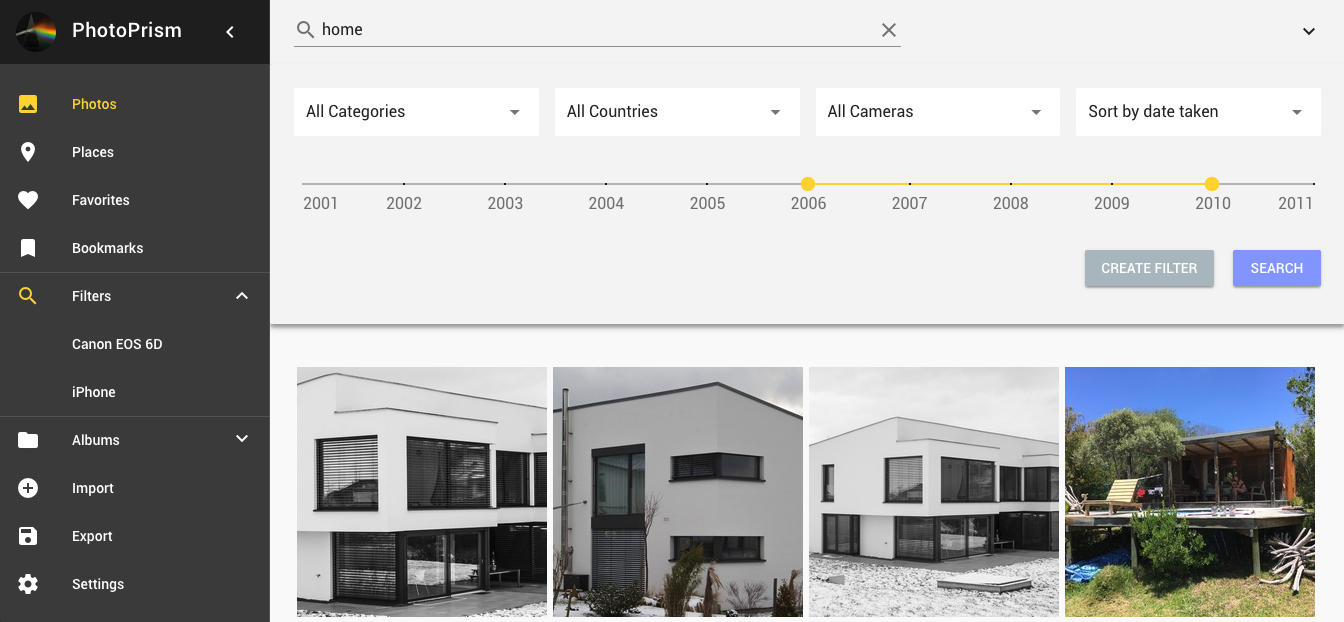
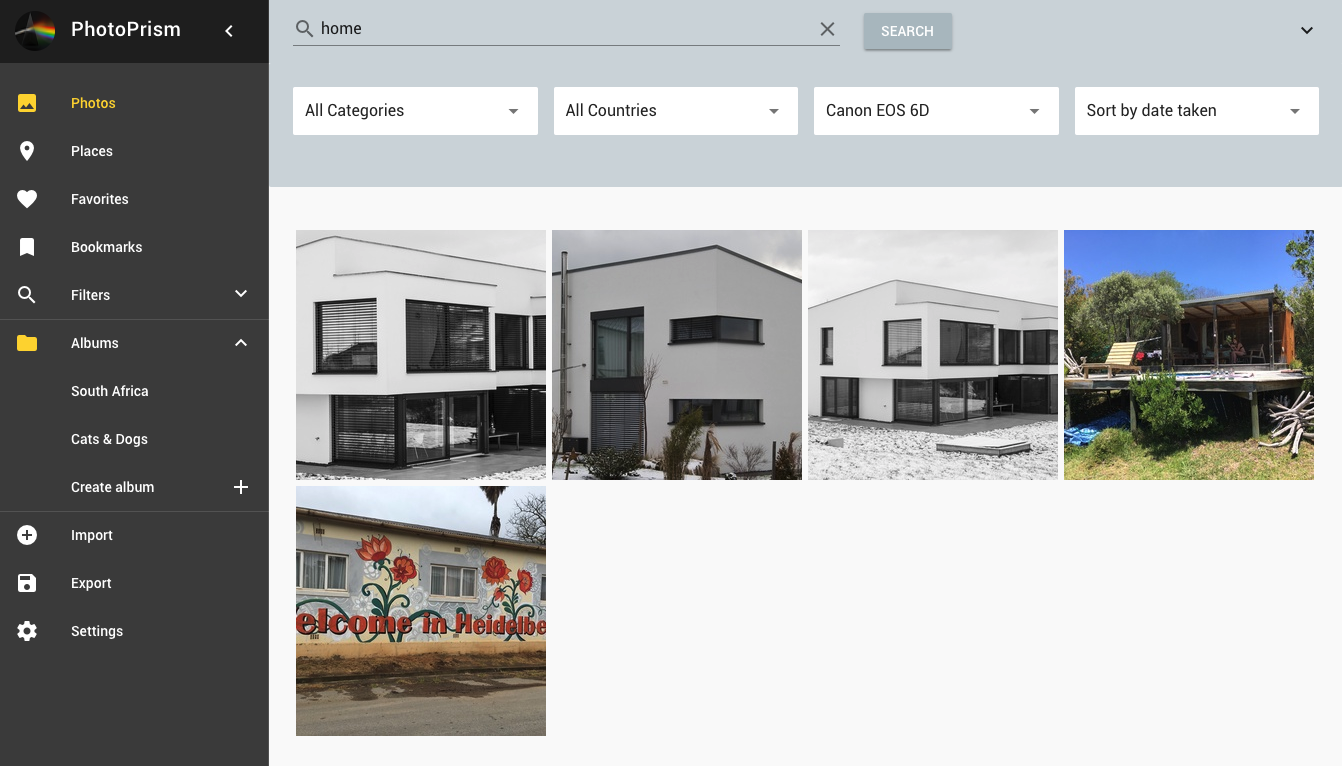
Improved search form design

diff --git a/frontend/src/app/pages/photos.vue b/frontend/src/app/pages/photos.vue
@@ -1,8 +1,8 @@
 <template>
     <div>
         <v-form ref="form" lazy-validation @submit="formChange" dense>
-            <v-toolbar>
-                <v-text-field class="pt-3"
+            <v-toolbar flat color="blue-grey lighten-4">
+                <v-text-field class="pt-3 pr-3"
                               single-line
                               label="Search"
                               prepend-inner-icon="search"
@@ -10,7 +10,7 @@
                               v-model="query.q"
                               @keyup.enter.native="formChange"
                 ></v-text-field>
-
+                <v-btn @click="formChange" color="secondary">Search</v-btn>
                 <v-spacer></v-spacer>
 
                 <v-btn icon @click="advandedSearch = !advandedSearch">
@@ -18,8 +18,9 @@
                 </v-btn>
             </v-toolbar>
             <v-slide-y-transition>
-                <v-card class="theme--light v-toolbar pt-0"
-                        style="box-shadow: 0 4px 4px -1px rgba(0,0,0,.2), 0 4px 5px 0 rgba(0,0,0,.14), 0 4px 10px 0 rgba(0,0,0,.12);"
+                <v-card class="pt-0"
+                        flat
+                        color="blue-grey lighten-4"
                         v-show="advandedSearch">
                     <v-card-text>
                         <v-layout row wrap>
@@ -56,26 +57,11 @@
                                 </v-select>
                             </v-flex>
                         </v-layout>
-                        <v-flex pa-3>
-                            <v-range-slider
-                                    :tick-labels="['2001','2002','2003','2004','2005','2006','2007','2008','2009','2010','2011','2012','2013','2014','2015']"
-                                    :value="[6, 30]"
-                                    step="10"
-                                    ticks
-                            >
-                            </v-range-slider>
-                        </v-flex>
-                        <p class="text-lg-right">
-                            <v-btn @click="formChange" color="secondary">Create Filter</v-btn>
-                            <v-btn @click="formChange" color="accent">Search</v-btn>
-                        </p>
                     </v-card-text>
                 </v-card>
             </v-slide-y-transition>
         </v-form>
         <v-container fluid>
-
-
             <div class="page-container photo-grid pt-3">
                 <template v-for="photo in items">
 
@@ -107,7 +93,6 @@
                                  :src="'/api/v1/files/' + file.ID + '/square_thumbnail?size=250'">
                         </template>
                     </div>
-
                 </template>
             </div>
             <div style="clear: both"></div>

diff --git a/frontend/src/app.js b/frontend/src/app.js
@@ -25,6 +25,9 @@ Vue.use(Vuetify, {
         secondary: '#b0bec5',
         accent: '#8c9eff',
         error: '#b71c1c',
+        info: '#2196F3',
+        success: '#4CAF50',
+        warning: '#FFC107',
     },
 });
 

diff --git a/README.md b/README.md
@@ -12,7 +12,8 @@
 [issues]: https://github.com/photoprism/photoprism/issues
 [ci]: https://travis-ci.org/photoprism/photoprism
 
-PhotoPrism is a server-based application for privately managing large amounts of JPEG and RAW files. It is functionally similar to popular cloud services such as [Flickr](https://www.flickr.com/) or [Google Photos](https://photos.google.com/).
+PhotoPrism is a server-based application for privately managing large amounts of JPEG and RAW files. It is functionally similar to
+popular cloud services such as [Flickr](https://www.flickr.com/) or [Google Photos](https://photos.google.com/).
 Originals are stored in the file system in a structured way for easy backup and reliable long-term accessibility.
 
 *Note: This software is still alpha and under active development. You're welcome to join our team.*
@@ -27,9 +28,10 @@ Our goal is to provide the following features (tested as a proof-of-concept):
 - Image search with powerful filters
 - Easy backup and export
 
-User Interface
---------------
-The Web frontend is based on [Vuetify](https://vuetifyjs.com/en/), a [Material Design](https://material.io/) component framework for Vue.js 2.
+Web Frontend
+------------
+Open a terminal an type `photoprism start` to start the built-in server. It will listen on localhost port 80 by default.
+The UI is based on [Vuetify](https://vuetifyjs.com/en/), a [Material Design](https://material.io/) component framework for Vue.js 2.
 
 ![](docs/img/search.png "Advanced Search")
 
